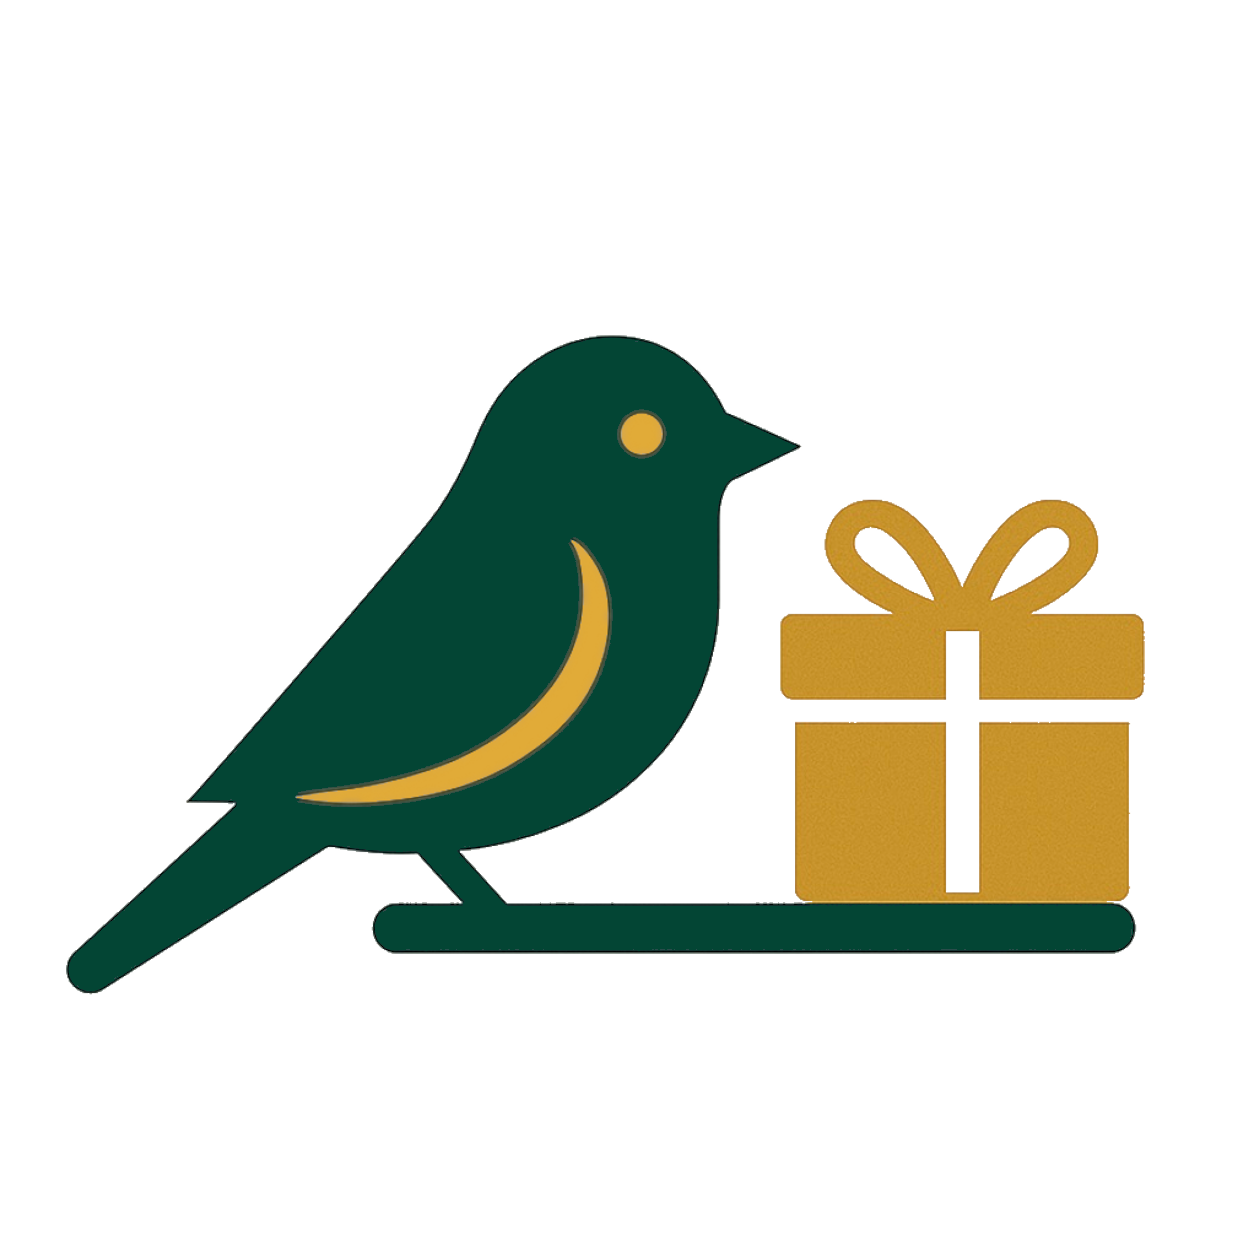
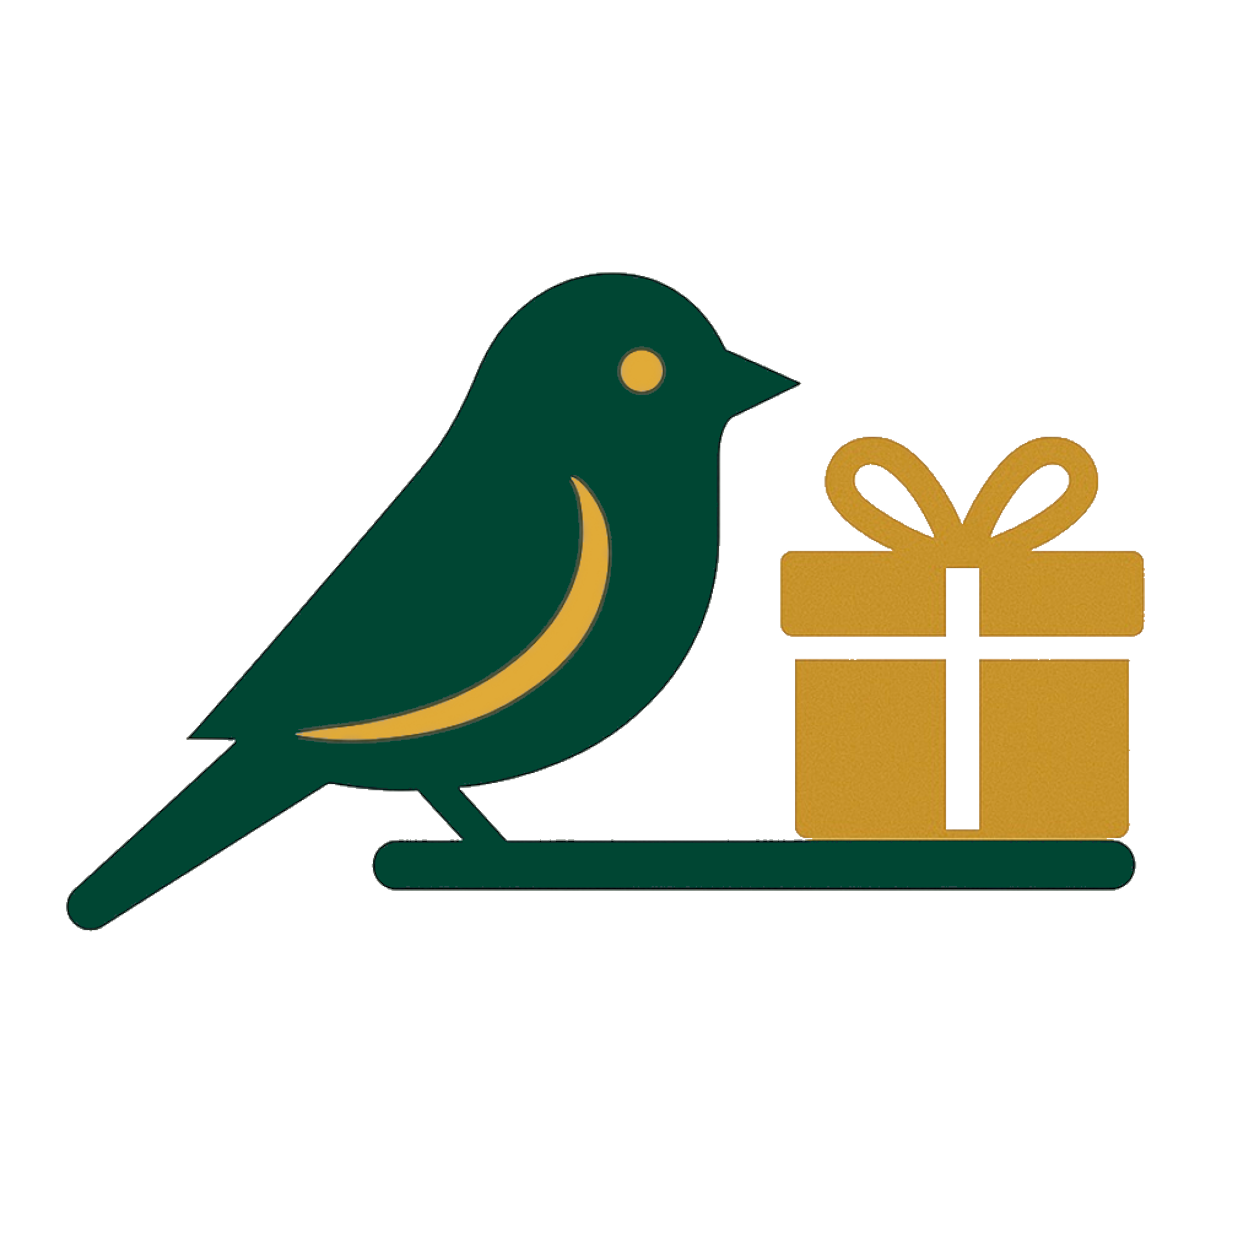
Adjusted animation page border

Changed region(s): [[0.0311, 0.2177, 0.933, 0.8086]]

diff --git a/src/app/animation/ForestBorder.tsx b/src/app/animation/ForestBorder.tsx
@@ -2,76 +2,76 @@ export default function ForestBorder() {
   const TREE_COUNT = 25;
   const TREE_WIDTH = 48;
   const VIEWBOX_WIDTH = 1200;
-  const VIEWBOX_HEIGHT = 220;
-
+  const VIEWBOX_HEIGHT = 170;
   const CENTER_INDEX = (TREE_COUNT - 1) / 2;
-  const GROUND_Y = 170;
+  const GROUND_Y = 132;
 
   return (
     <div className="w-full pointer-events-none select-none">
       <svg
         viewBox={`0 0 ${VIEWBOX_WIDTH} ${VIEWBOX_HEIGHT}`}
         preserveAspectRatio="none"
-        className="h-[140px] w-full"
+        className="h-[125px] w-full"
         aria-hidden="true"
       >
         <g>
           {Array.from({ length: TREE_COUNT }).map((_, i) => {
             const x = i * TREE_WIDTH;
             const cx = x + TREE_WIDTH / 2;
-
             const isAlt = i % 2 === 0;
             const color = isAlt ? "#0F3D3E" : "#145C54";
 
+            // 0 at center, 1 at far edges
             const distanceFromCenter =
               Math.abs(i - CENTER_INDEX) / CENTER_INDEX;
 
-            // 🔥 Strong curve for visible difference
-            const scale = 0.75 + Math.pow(distanceFromCenter, 1.8) * 0.9;
+            // Controlled height difference: noticeable, not chaotic
+            const heightBoost = Math.pow(distanceFromCenter, 1.35) * 34;
 
-            // Slight controlled variation
-            const variation =
-              i % 3 === 0 ? 0.04 : i % 3 === 1 ? -0.02 : 0.02;
+            // Tiny deterministic variation
+            const variation = i % 4 === 0 ? 3 : i % 4 === 1 ? -2 : i % 4 === 2 ? 1 : -1;
 
-            const finalScale = scale + variation;
+            const topY = 34 - heightBoost + variation;
+            const middleY = 58 - heightBoost * 0.65 + variation;
+            const bottomY = 82 - heightBoost * 0.35 + variation;
 
             return (
-              <g
-                key={i}
-                transform={`
-                  translate(${cx} ${GROUND_Y})
-                  scale(${finalScale})
-                  translate(${-cx} ${-GROUND_Y})
-                `}
-              >
-                {/* CLEAN, CONSISTENT TREE SHAPE */}
-
-                {/* Top */}
+              <g key={i}>
+                {/* Top tier */}
                 <polygon
                   points={`
-                    ${cx},40
-                    ${cx - 14},80
-                    ${cx + 14},80
+                    ${cx},${topY}
+                    ${cx - 15},${topY + 46}
+                    ${cx - 6},${topY + 42}
+                    ${cx},${topY + 56}
+                    ${cx + 6},${topY + 42}
+                    ${cx + 15},${topY + 46}
                   `}
                   fill={color}
                 />
 
-                {/* Middle */}
+                {/* Middle tier */}
                 <polygon
                   points={`
-                    ${cx},70
-                    ${cx - 22},115
-                    ${cx + 22},115
+                    ${cx},${middleY}
+                    ${cx - 23},${middleY + 52}
+                    ${cx - 10},${middleY + 46}
+                    ${cx},${middleY + 62}
+                    ${cx + 10},${middleY + 46}
+                    ${cx + 23},${middleY + 52}
                   `}
                   fill={color}
                 />
 
-                {/* Bottom */}
+                {/* Bottom tier */}
                 <polygon
                   points={`
-                    ${cx},100
-                    ${cx - 30},150
-                    ${cx + 30},150
+                    ${cx},${bottomY}
+                    ${cx - 31},${GROUND_Y}
+                    ${cx - 13},${GROUND_Y - 8}
+                    ${cx},${GROUND_Y + 10}
+                    ${cx + 13},${GROUND_Y - 8}
+                    ${cx + 31},${GROUND_Y}
                   `}
                   fill={color}
                 />
@@ -80,12 +80,11 @@ export default function ForestBorder() {
           })}
         </g>
 
-        {/* Ground */}
         <rect
           x="0"
           y={GROUND_Y}
           width={VIEWBOX_WIDTH}
-          height="30"
+          height="38"
           fill="#0F3D3E"
         />
       </svg>